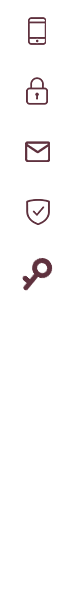
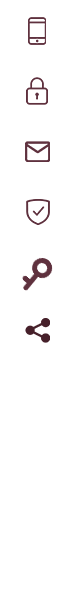
##

Changed region(s): [[0.32, 0.51, 0.6667, 0.57]]

diff --git a/css/newsIndex.css b/css/newsIndex.css
@@ -33,7 +33,7 @@
 .article-time .author{color: #5f313e;}
 .article-wrapper{margin: 0.5rem 0.5rem 2.5rem; padding: 0.5rem 0.5rem 1rem; border-bottom: 1px solid #6f4148;}
 .article-wrapper .title{height: 2.25rem; line-height: 1.9rem; color: #000000; font-size: 0.75rem; text-align: center;}
-.article-content p{font-size: 0.75rem; color: #000; line-height: 1.3rem; margin-bottom: 0.45rem; text-indent: 1.5rem;}
+.article-content p{font-size: 0.75rem; color: #000; line-height: 1.4rem; margin-bottom: 0.45rem; text-indent: 1.5rem; text-align: justify;}
 .point-num{color: #46202a; font-size: 0.8rem; margin-top: 1.2rem;}
 .read-num{background: url("../img/eye.png") no-repeat center left; -webkit-background-size: auto 65%;  background-size: auto 65%; padding-left: 1.1rem; margin-right: 0.5rem;}
 .point-hand{padding-left: 1rem; background: url("../img/point.png") no-repeat center left; -webkit-background-size: auto 290%; background-size: auto 290%; background-position: 0 -6%;}
@@ -59,12 +59,7 @@
 /*==写评论==*/
 .write-comment{position: absolute; width: 100%; height: 13.1vw; bottom: 0; background-color: #5f313e; display: -webkit-box; display: -ms-flexbox; display: -webkit-flex; display: flex; -webkit-box-pack: justify; -ms-flex-pack: justify; -webkit-justify-content: space-between; justify-content: space-between; -webkit-box-align: center; -ms-flex-align: center; -webkit-align-items: center; align-items: center;padding: 0 0.875rem 0 0;}
 .comment-number{display: block; height: 100%; width: 13vw; position: relative; }
-.comment-number a{position: absolute; width: 100%; left: 0; top: 50%;
-    -webkit-transform: translateY(-50%);
-    -moz-transform: translateY(-50%);
-    -ms-transform: translateY(-50%);
-    -o-transform: translateY(-50%);
-    transform: translateY(-50%);}
+.comment-number a{position: absolute; width: 100%; left: 0; top: 50%; -webkit-transform: translateY(-50%); -moz-transform: translateY(-50%); -ms-transform: translateY(-50%); -o-transform: translateY(-50%); transform: translateY(-50%);}
 .comment-number img{width: 42%; margin: 0.65vw auto 0;}
 .comment-number p{width: 100%; text-align: center; color: #fff; font-size: 0.35rem; }
 .comment-input{flex: 1; position: relative; height: 7.2vw; padding: 0 3%; border: 1px solid #fff; margin:0 0.5rem 0 0.1rem; border-radius: 7px;}
@@ -79,9 +74,9 @@
 #pics img.img-middle{top: 50%; -webkit-transform: translateY(-55%); -moz-transform: translateY(-55%); -ms-transform: translateY(-55%); -o-transform: translateY(-55%); transform: translateY(-55%);}
 .pic-word{position: absolute; bottom: 0; left: 0; right: 0; color: #d7c4a7; font-size: 0.75rem; background-color: rgba(9,9,9,0.6);padding: 1.25rem 0.75rem 1rem; line-height: 1.15rem;}
 .word-inner{width: 100%; max-height: 5.8rem; overflow-y: auto; -webkit-overflow-scrolling: touch; position: relative; text-align: justify;}
-#pics-detail .pic-word.more:after{content: ''; width: 0.05rem; position: absolute; right: 0.4rem; top: 1.25rem; bottom: 1rem; background-color: #c7b497;}
+#pics-detail .pic-word.more:after{content: ''; width: 0.05rem; position: absolute; right: 0.4rem; top: 1.25rem; bottom: 1rem; background-color: rgba(199,180,151,0.3);}
 .pic-word .scrollbar{display: none;}
-.pic-word.more .scrollbar{display: block; width: 0.25rem; position: absolute; background-color: #c7b497; margin: 0; right: 0.3rem; top: 1.25rem;}
+.pic-word.more .scrollbar{display: block; width: 0.15rem; position: absolute; background-color: rgba(199,180,151,0.5); margin: 0; right: 0.35rem; top: 1.25rem;}
 .pic-word span{font-size: 0.8rem; font-weight: bold; margin-right: 0.3rem;}
 /*==视频==*/
 .video{margin-bottom: 1.25rem;}
@@ -116,3 +111,38 @@ video::-webkit-media-controls { display:none !important; }
 #reply .comment:nth-of-type(1) .comment-content{border-bottom: none;}
 #reply .comment:nth-of-type(2) .comment-item:nth-last-child(1) .comment-content{border-bottom: none;}
 #reply .comment-main .name{font-size: 0.75rem; margin-left: 0.1rem;}
+/*==展览信息==*/
+.display-title{width: 33.1vw; margin: 0.85rem auto 0.7rem;}
+.display-lists{padding: 0 0.3rem;}
+.display-list{display: block; margin-bottom: 0.3rem;}
+/*==展览信息详情==*/
+.display-detail .article-title{margin-bottom: 0.5rem; text-align: center;}
+.article-title.text-left{text-align: left;}
+.display-detail .article-wrapper{border-bottom: none; margin-bottom: 1.5rem;}
+.display-detail .point-num{margin-top: 2.4rem;}
+.display-detail .read-num{margin-right: 1.2rem;}
+.display-share{width: 1rem; height: 1rem; background: url("../img/icon.png") no-repeat;
+    -webkit-background-size: 210% auto;
+    background-size: 210% auto;
+    background-position: center 55.5%;}
+
+
+
+
+
+
+
+
+
+
+
+
+
+
+
+
+
+
+
+
+

diff --git a/display-detail.html b/display-detail.html
@@ -1,0 +1,61 @@
+<!DOCTYPE html>
+<html>
+<head lang="en">
+    <meta charset="UTF-8">
+    <meta http-equiv="Cache-Control" content="no-cache"/>
+    <meta name="renderer" content="webkit"/>
+    <meta name="author" content="SIRMly">
+    <meta http-equiv="X-UA-Compatible" content="IE=edge,chrome=1">
+    <meta name="viewport"
+          content="width=device-width, initial-scale=1.0, minimum-scale=1.0, maximum-scale=1.0, user-scalable=no">
+    <meta name="format-detection" content="telephone=no">
+    <link rel="stylesheet" href="css/reset.css">
+    <link rel="stylesheet" href="css/newsIndex.css"/>
+    <title>大唐西市</title>
+</head>
+<body>
+<div class="page display-detail">
+    <div class="container">
+        <div class="content">
+            <div class="article-wrapper po-re">
+                <p class="article-title">划时代的钱币-开元通宝</p>
+                <div class="article-content">
+                    <p>《旧唐书·食货志上》载， 唐高祖为整治币制，开铸“开元通宝”，取代社会上遗存的五铢。钱文由书法家欧阳询题写，形制仍沿用秦方孔圆钱，规定每一文重一钱，每十文重一两，一千文重六斤四两。钱币在唐代始有“通宝”，开创了新纪元，在钱币发展史上占有重要地位。从此，中国的币制正式脱离以重量为名的铢两体系而发展为通宝币制，成为唐以后历朝的铸币标准，沿袭近1300年。</p>
+                    <p>
+                        <img src="img/display1.png" alt=""/>
+                    </p>
+                    <p>《旧唐书·食货志上》载， 唐高祖为整治币制，开铸“开元通宝”，取代社会上遗存的五铢。钱文由书法家欧阳询题写，形制仍沿用秦方孔圆钱，规定每一文重一钱，每十文重一两，一千文重六斤四两。钱币在唐代始有“通宝”，开创了新纪元，在钱币发展史上占有重要地位。从此，中国的币制正式脱离以重量为名的铢两体系而发展为通宝币制，成为唐以后历朝的铸币标准，沿袭近1300年。</p>
+                </div>
+                <div class="point-num clearfix">
+                    <span class="read-num">1235</span>
+                    <span class="point-hand">2265</span>
+                    <a href="##" class="display-share pull-right"></a>
+                </div>
+            </div>
+        </div>
+    </div>
+</div>
+<script src="js/jquery.min.js"></script>
+<script src="js/fastclick.min.js"></script>
+<script>
+    FastClick.attach(document.body);
+    var click = "click";
+    /*==评论的点赞换图标==*/
+    $(".point-hand").on(click, function () {
+        if ($(this).hasClass("active")) {
+            $(this).removeClass("active");
+        } else {
+            $(this).addClass("active");
+        }
+    });
+    /*==标题样式改变==*/
+    var HtmlF = parseFloat($("html").css("font-size"));
+    console.log(HtmlF);
+    var title = $(".article-title");
+    var titleH = title.height();
+    if(titleH >= 2*HtmlF){
+        title.addClass("text-left");
+    }
+</script>
+</body>
+</html>

diff --git a/display.html b/display.html
@@ -1,0 +1,53 @@
+<!DOCTYPE html>
+<html>
+<head lang="en">
+    <meta charset="UTF-8">
+    <meta http-equiv="Cache-Control" content="no-cache"/>
+    <meta name="renderer" content="webkit"/>
+    <meta name="author" content="SIRMly">
+    <meta name="keywords" content="大唐西市"/>
+    <meta name="description" content="大唐西市展览信息"/>
+    <meta http-equiv="X-UA-Compatible" content="IE=edge,chrome=1">
+    <meta name="viewport" content="width=device-width, initial-scale=1.0, minimum-scale=1.0, maximum-scale=1.0, user-scalable=no">
+    <meta name="format-detection" content="telephone=no">
+    <link rel="stylesheet" href="css/reset.css">
+    <link rel="stylesheet" href="css/newsIndex.css"/>
+    <title>大唐西市</title>
+</head>
+<body>
+<div class="page display">
+    <div class="container">
+        <div class="content">
+            <div class="display-content">
+                <div class="display-title">
+                    <img src="img/display-title.png" alt=""/>
+                </div>
+                <div class="display-lists">
+                    <a href="display-detail.html" class="display-list">
+                        <img src="img/display1.png" alt=""/>
+                    </a>
+                    <a href="display-detail.html" class="display-list">
+                        <img src="img/display2.png" alt=""/>
+                    </a>
+                    <a href="display-detail.html" class="display-list">
+                        <img src="img/display3.png" alt=""/>
+                    </a>
+                    <a href="display-detail.html" class="display-list">
+                        <img src="img/display2.png" alt=""/>
+                    </a>
+                    <a href="display-detail.html" class="display-list">
+                        <img src="img/display1.png" alt=""/>
+                    </a>
+                </div>
+            </div>
+        </div>
+    </div>
+</div>
+
+<script src="js/jquery.min.js"></script>
+<script>
+    ;(function ($){
+    })(jQuery);
+</script>
+</body>
+</html>
